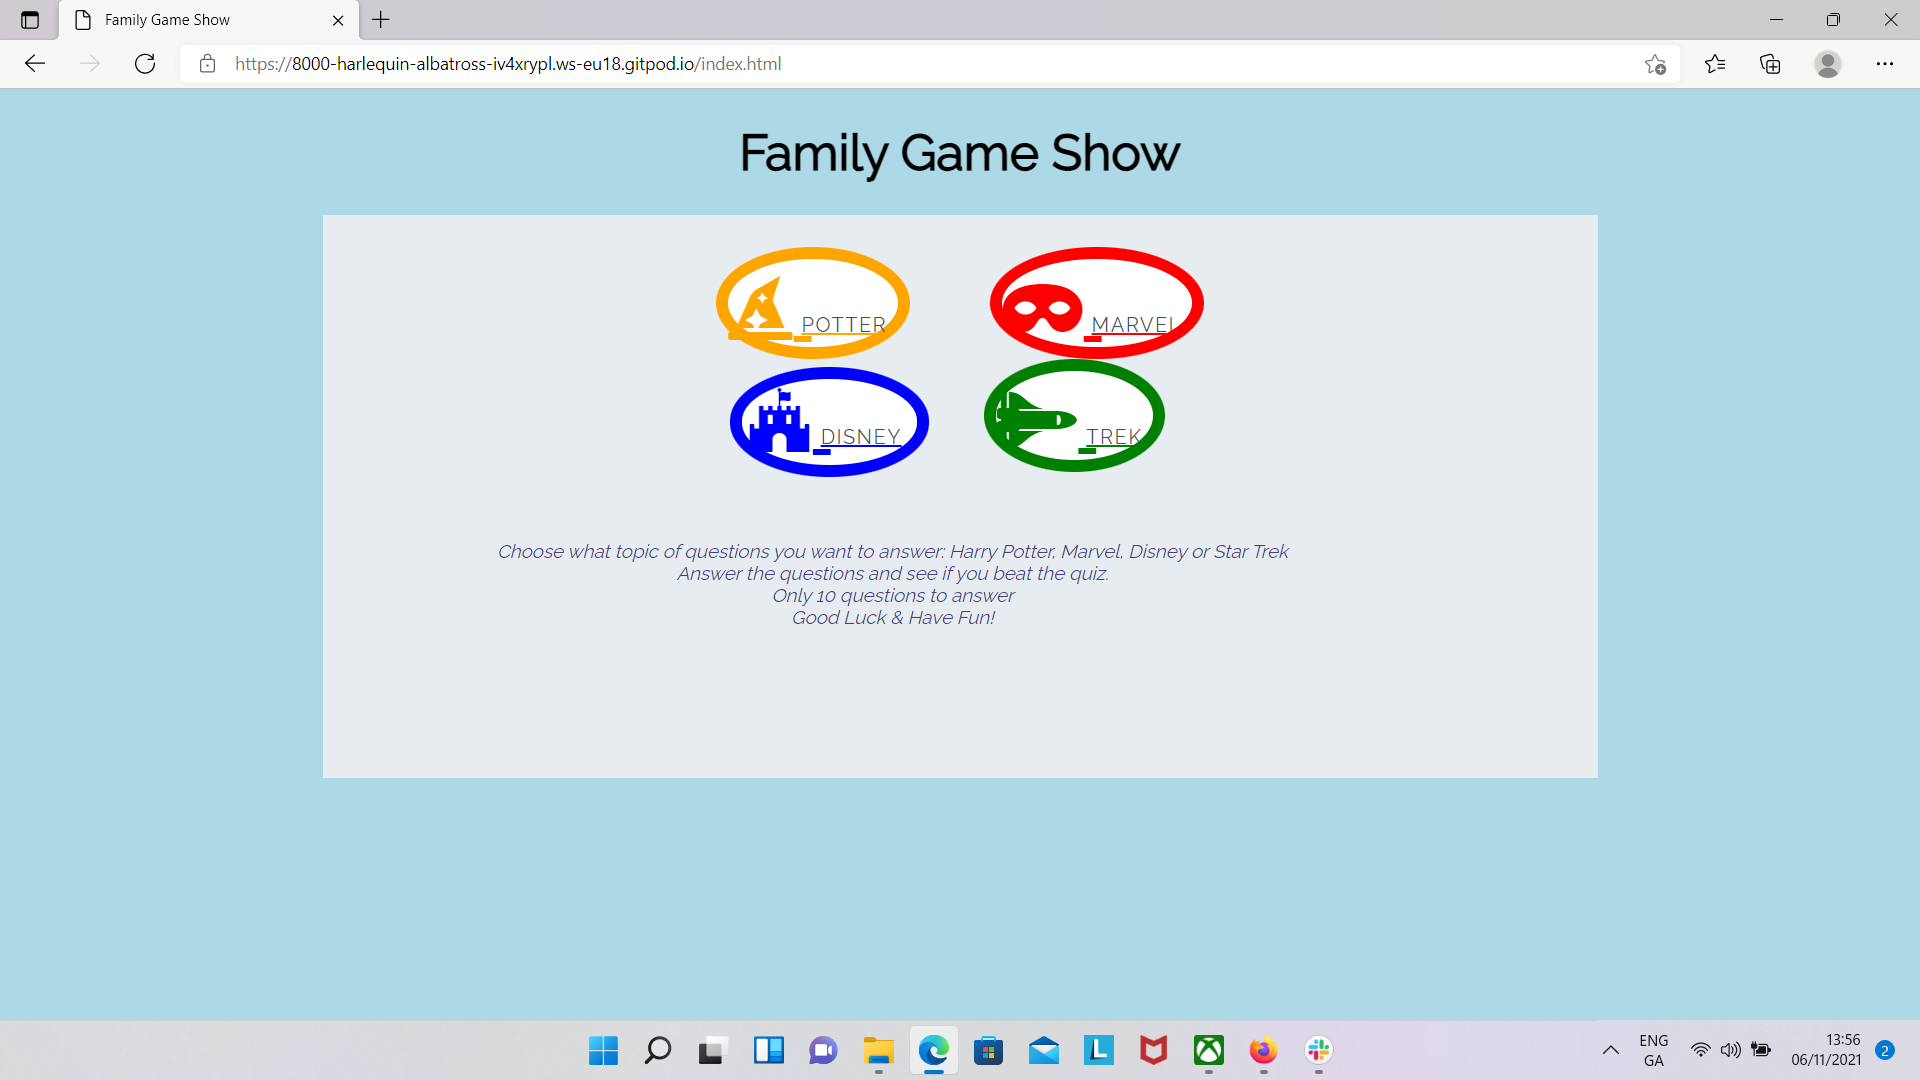
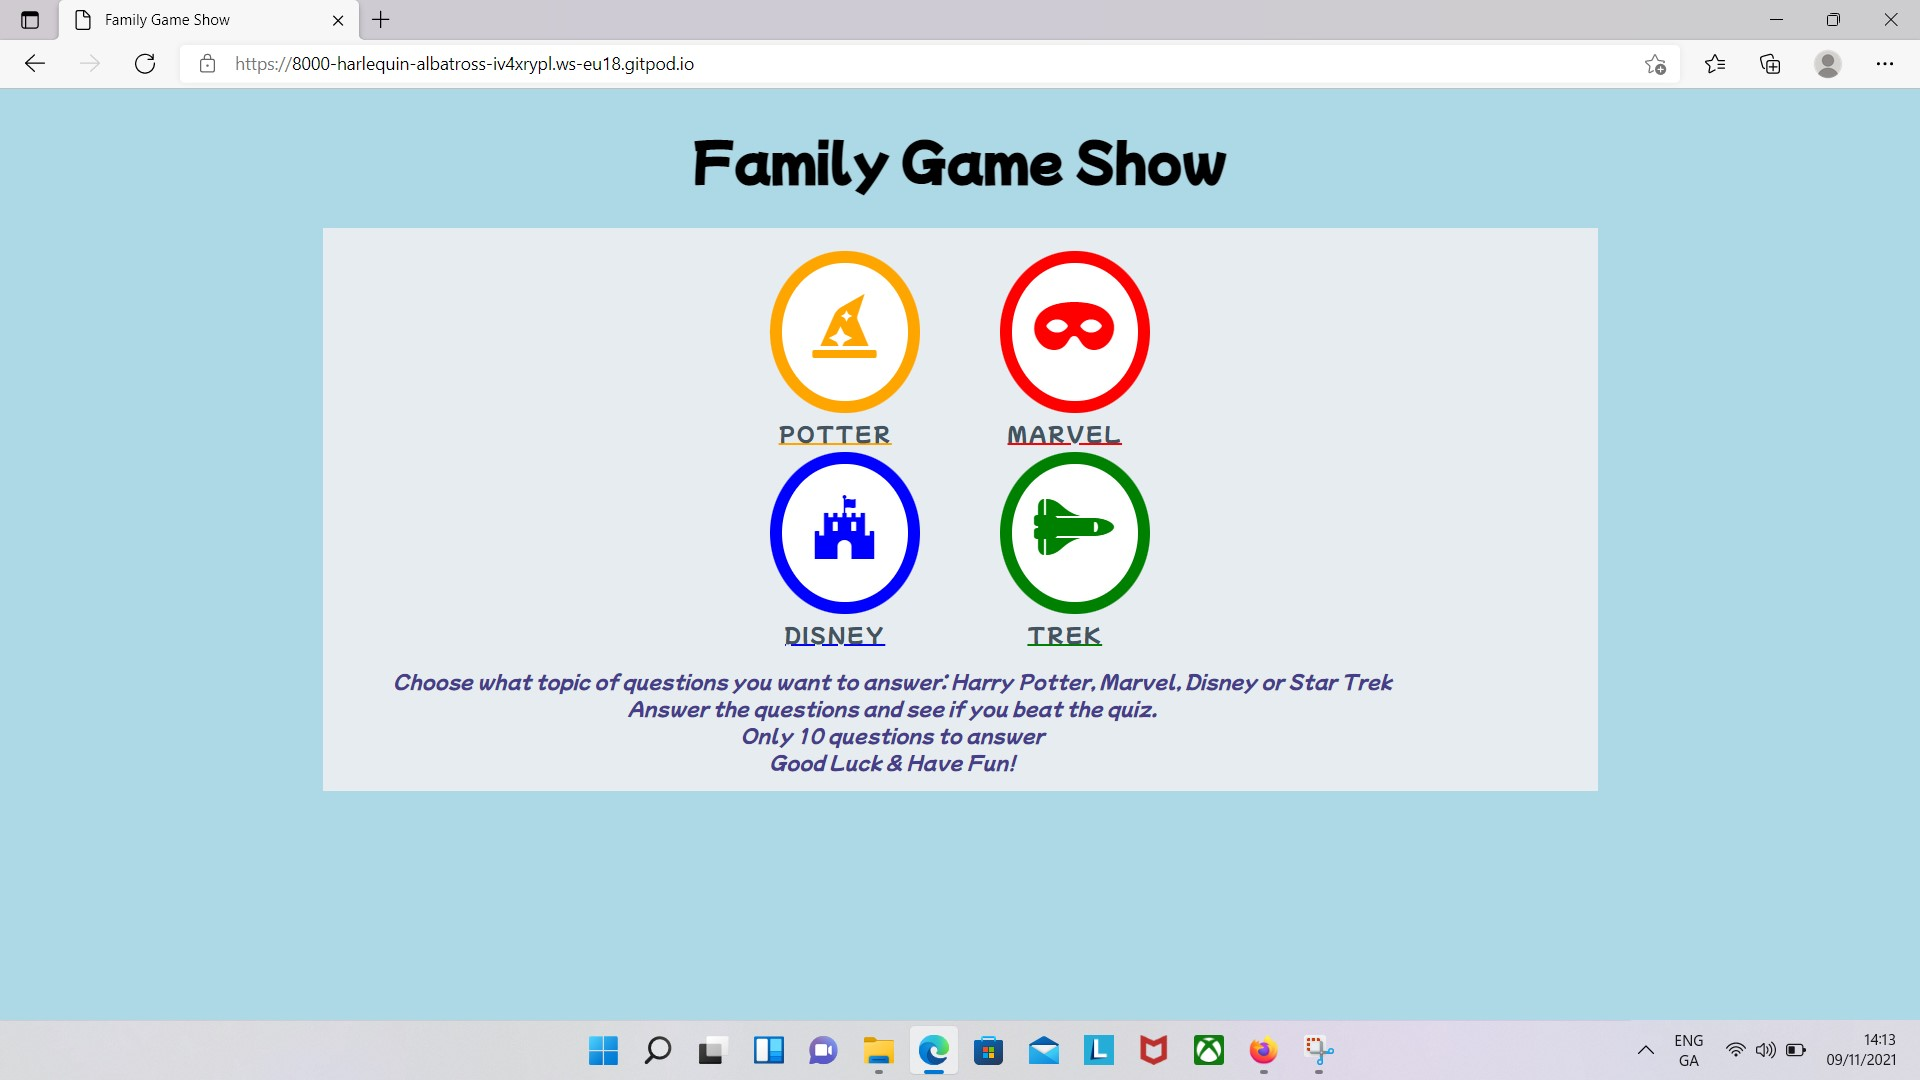
Added a known bug that was fixed

diff --git a/README.md b/README.md
@@ -142,7 +142,7 @@
 - Difficulty getting questions to end after 10 questions. _First I had an endless line withe the last question over and over at end of quiz.  Next I got it to stop at 9 instead of 10. Finally I added code to bring the user back to the index.html page to be able to either retake the quiz or choose another quiz._
 - Questions don't end when the 10th question is asked _Wrote code to get the game to end after 10 questions and return the user to the page with the choice of type of game so they can replay or change game type._
 - Other games are not connected _This was done by connecting code and condensing my code_
-
+- Buttons needed to be rounded. _I corrected this by editing the css style code_
 
 ## Deployment
 
